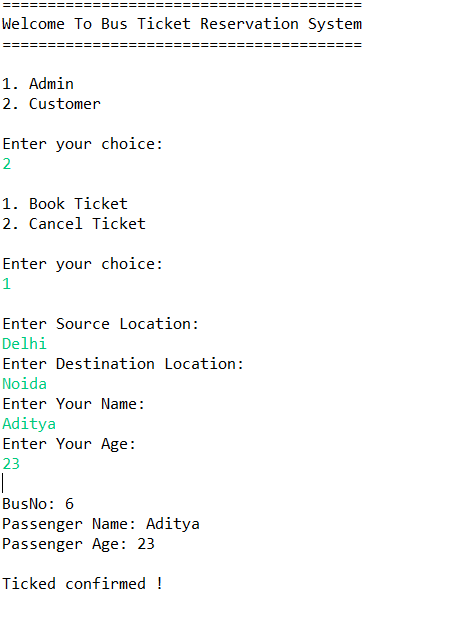
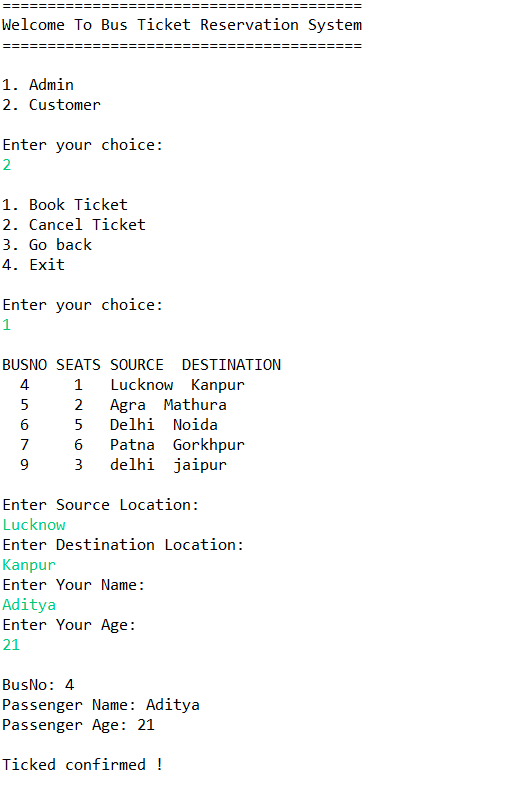
Bus details functionality added

Changed region(s): [[0.0, 0.0, 0.7982, 0.9305], [0.0, 0.9605, 0.307, 0.9905]]

diff --git a/Bus Ticket Reservation System/src/com/masai/runner/Main.java b/Bus Ticket Reservation System/src/com/masai/runner/Main.java
@@ -1,147 +1,217 @@
 package com.masai.runner;
 
+import java.sql.Connection;
+import java.sql.PreparedStatement;
+import java.sql.ResultSet;
 import java.util.Scanner;
 
 import com.masai.dao.TicketDao;
 import com.masai.dao.TicketDaoImpl;
+import com.masai.utility.DButil;
 
 public class Main {
 	
 	public static void main(String[] args) {
 		
-		System.out.println("========================================");
-		System.out.println("Welcome To Bus Ticket Reservation System");
-		System.out.println("========================================");
+		int check = 1;
 		
-		Scanner sc = new Scanner(System.in);
-		TicketDao dao = new TicketDaoImpl();
-		
-		
-		System.out.println();
-		
-		System.out.println("1. Admin");
-		System.out.println("2. Customer");
-		System.out.println();
-		
-		System.out.println("Enter your choice:");
-		int choice = sc.nextInt();
-		
-		if(choice==1)
+		while(check !=2)
 		{
 			System.out.println();
-			System.out.println("Enter username: ");
-			String username = sc.next();
+			System.out.println("========================================");
+			System.out.println("Welcome To Bus Ticket Reservation System");
+			System.out.println("========================================");
 			
-			System.out.println("Enter Password: ");
-			String password = sc.next();
+			Scanner sc = new Scanner(System.in);
+			TicketDao dao = new TicketDaoImpl();
 			
-			
-			String login = dao.adminLogin(username, password);
-			
-			System.out.println(login);
-			
-			System.out.println("1. Insert Bus Details");
 			
 			System.out.println();
-			System.out.println("Enter your choice:");
-			int insertorNot = sc.nextInt();
+			System.out.println("1. Admin");
+			System.out.println("2. Customer");
+			System.out.println();
 			
-			if(insertorNot==1)
-
+			System.out.println("Enter your choice:");
+			int choice = sc.nextInt();
+			
+			if(choice==1)
 			{
-				System.out.println("Enter BusName: ");
-				String busname = sc.next();
+				System.out.println();
+				System.out.println("Enter username: ");
+				String username = sc.next();
 				
-				System.out.println("Enter Source: ");
-				String source = sc.next();
-				
-				System.out.println("Enter Destination: ");
-				String destination = sc.next();
-				
-				System.out.println("Enter BusType: ");
-				String bustype = sc.next();
-				
-				System.out.println("Enter Seats Avilable: ");
-				int seats = sc.nextInt();
-				
-				System.out.println("Enter ArrivalTime: ");
-				String arrivalTime = sc.next();
-				
-				System.out.println("Enter DepartureTime: ");
-				String departureTime = sc.next();
+				System.out.println("Enter Password: ");
+				String password = sc.next();
 				
 				
-				String result = dao.insertBusDetails(busname, source, destination, bustype, seats, arrivalTime, departureTime);
+				String login = dao.adminLogin(username, password);
 				
-				System.out.println(result);
+				System.out.println(login);
+				
+				if(login.equals("Wrong Credentials!"))
+				{
+					check = 1;
+					continue;
+				}
+				
+				System.out.println("1. Insert Bus Details");
+				System.out.println("2. Go back");
+				System.out.println("3. Exit");
+				
+				System.out.println();
+				System.out.println("Enter your choice:");
+				int insertorNot = sc.nextInt();
+				
+				if(insertorNot==1)
+					
+				{
+					System.out.println("Enter BusName: ");
+					String busname = sc.next();
+					
+					System.out.println("Enter Source: ");
+					String source = sc.next();
+					
+					System.out.println("Enter Destination: ");
+					String destination = sc.next();
+					
+					System.out.println("Enter BusType: ");
+					String bustype = sc.next();
+					
+					System.out.println("Enter Seats Avilable: ");
+					int seats = sc.nextInt();
+					
+					System.out.println("Enter ArrivalTime: ");
+					String arrivalTime = sc.next();
+					
+					System.out.println("Enter DepartureTime: ");
+					String departureTime = sc.next();
+					
+					
+					String result = dao.insertBusDetails(busname, source, destination, bustype, seats, arrivalTime, departureTime);
+					
+					System.out.println(result);
+					
+				}
+				else if(insertorNot==2)
+				{
+					check = 1;
+				}
+				else if(insertorNot==3)
+				{
+					check = 2;
+				}
+				else
+				{
+					System.out.println("Please Enter Correction Information Next Time!");
+				}
+			}
+			else if(choice ==2)
+			{
+				System.out.println();
+				System.out.println("1. Book Ticket");
+				System.out.println("2. Cancel Ticket");
+				System.out.println("3. Go back");
+				System.out.println("4. Exit");
+				
+				
+				System.out.println();
+				System.out.println("Enter your choice: ");
+				int bookorNot = sc.nextInt();
+				
+				if(bookorNot==1)
+				{
+					System.out.println();
+					
+					try(Connection conn =DButil.provideConnection()) {
+						
+						
+						PreparedStatement ps = conn.prepareStatement("Select * from busdetails");
+						
+						ResultSet rs = ps.executeQuery();
+						
+						System.out.println("BUSNO SEATS SOURCE  DESTINATION");
+						while(rs.next())
+						{
+							
+							System.out.print("  "+rs.getInt("busno")+"     ");
+							
+							System.out.print(rs.getInt("seats")+"   ");
+							
+							System.out.print(rs.getString("source")+"  ");
+							System.out.print(rs.getString("destination"));
+							
+							
+							
+							System.out.println();
+						}
+						
+					} catch (Exception e) {
+						System.out.println(e.getMessage());
+					} 
+					
+					System.out.println();
+					System.out.println("Enter Source Location: ");
+					String source = sc.next();
+					
+					System.out.println("Enter Destination Location: ");
+					String destination = sc.next();
+					
+					System.out.println("Enter Your Name: ");
+					String name = sc.next();
+					
+					System.out.println("Enter Your Age: ");
+					int age = sc.nextInt();
+					
+					
+					String res = dao.confirmTicket(source, destination, name, age );
+					
+					System.out.println();
+					System.out.println(res);
+					check = 1;
+					
+					
+				}
+				else if(bookorNot==2)
+				{
+					System.out.println("Enter BusNo: ");
+					int busno = sc.nextInt();
+					
+					System.out.println("Enter Name: ");
+					String name = sc.next();
+					
+					
+					String result = dao.ticketCancel(busno, name);
+					
+					
+					System.out.println();
+					
+					System.out.println(result);
+					
+				}
+				else if(bookorNot==3)
+				{
+					check = 1;
+				}
+				else if(bookorNot==4)
+				{
+					check = 2;
+				}
+				else
+				{
+					System.out.println("Please Enter Correction Information Next Time!");
+				}
 				
 			}
 			else
 			{
 				System.out.println("Please Enter Correction Information Next Time!");
 			}
-		}
-		else if(choice ==2)
-		{
-			System.out.println();
-			System.out.println("1. Book Ticket");
-			System.out.println("2. Cancel Ticket");
 			
-			System.out.println();
-			System.out.println("Enter your choice: ");
-			int bookorNot = sc.nextInt();
-			
-			if(bookorNot==1)
-			{
-				System.out.println();
-				System.out.println("Enter Source Location: ");
-				String source = sc.next();
-				
-				System.out.println("Enter Destination Location: ");
-				String destination = sc.next();
-				
-				System.out.println("Enter Your Name: ");
-				String name = sc.next();
-				
-				System.out.println("Enter Your Age: ");
-				int age = sc.nextInt();
-				
-				
-				String res = dao.confirmTicket(source, destination, name, age );
-				
-				System.out.println();
-				System.out.println(res);
-						
-				
-			}
-			else if(bookorNot==2)
-			{
-				System.out.println("Enter BusNo: ");
-				int busno = sc.nextInt();
-				
-				System.out.println("Enter Name: ");
-				String name = sc.next();
-				
-				
-				String result = dao.ticketCancel(busno, name);
-				
-				
-				System.out.println();
-				
-				System.out.println(result);
-				
-			}		    
-		    else
-		    {
-		    	System.out.println("Please Enter Correction Information Next Time!");
-		    }
-
-		}
-		else
-		{
-			System.out.println("Please Enter Correction Information Next Time!");
 		}
 		
+	    System.out.println("============================");
+	    System.out.println("Thank you for visiting us !");
+	    System.out.println("============================");
 		
 		
 	}

diff --git a/Bus Ticket Reservation System/src/com/masai/dao/TicketDao.java b/Bus Ticket Reservation System/src/com/masai/dao/TicketDao.java
@@ -10,4 +10,6 @@ public interface TicketDao {
 	public String ticketCancel(int busno, String name);
 	
 	public String adminLogin(String username, String password);
+	
+	
 }
